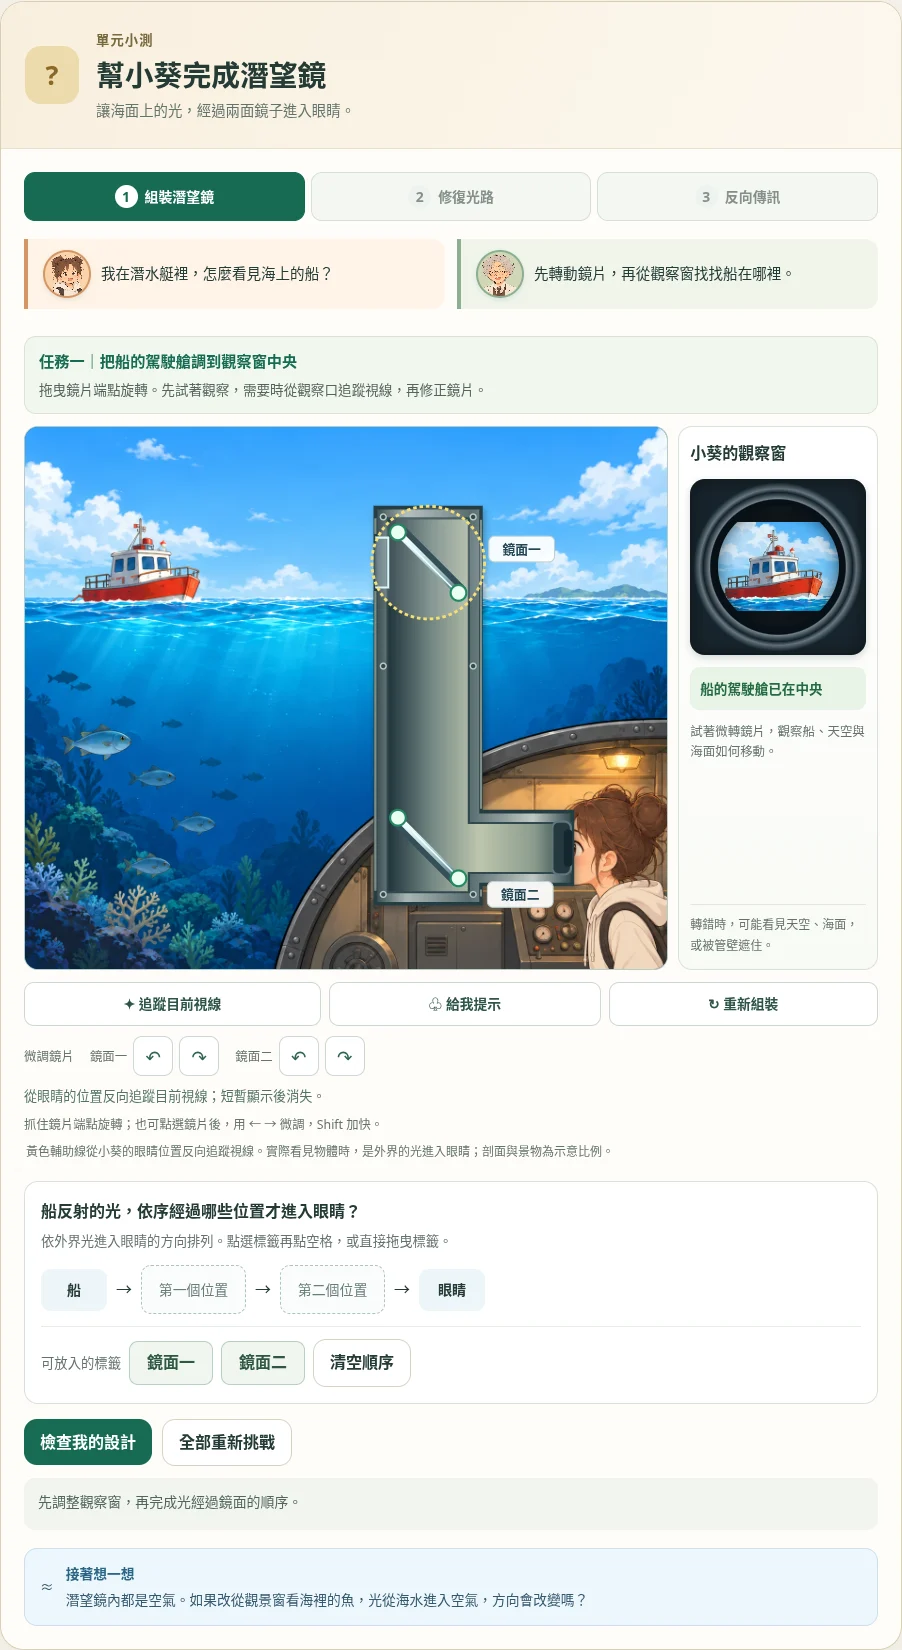
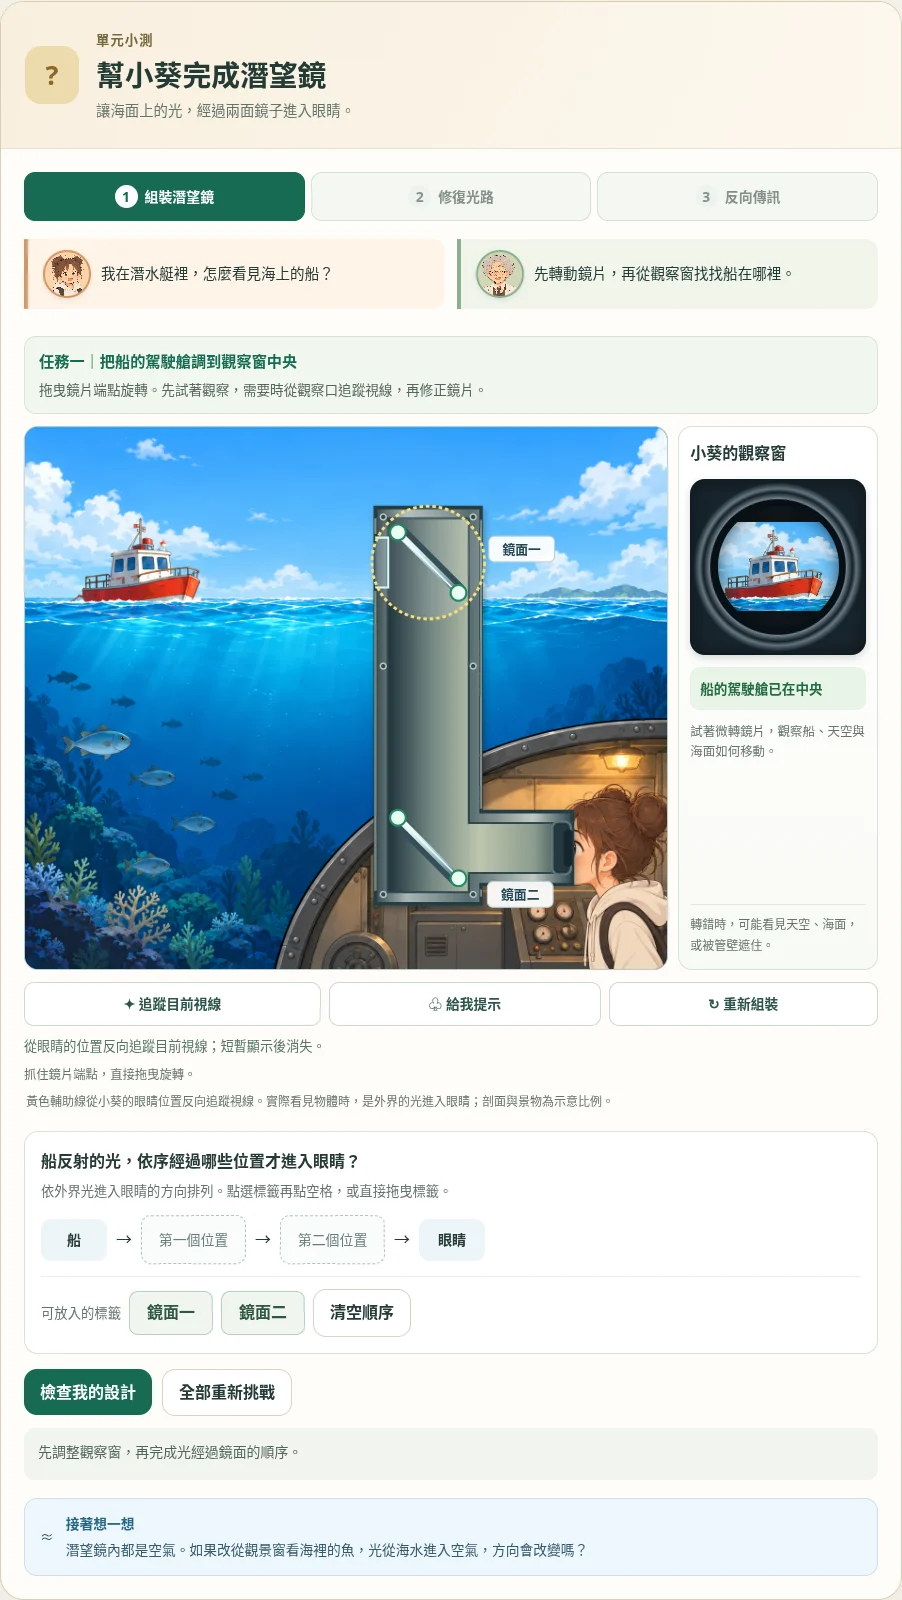
Remove the separate periscope fine adjustment toolbar

diff --git a/units/1/parts/1.2/index.html b/units/1/parts/1.2/index.html
@@ -103,7 +103,7 @@
   </style>
   <link rel="stylesheet" href="assets/curved-mirrors.css?v=1">
   <link rel="stylesheet" href="assets/reversible-light.css?v=3">
-  <link rel="stylesheet" href="assets/periscope.css?v=2">
+  <link rel="stylesheet" href="assets/periscope.css?v=3">
 </head>
 <body>
   <header class="shell masthead">
@@ -433,9 +433,8 @@
                 <aside class="periscope-view" aria-label="從潛望鏡看到的景象"><h3>小葵的觀察窗</h3><div class="periscope-lens-frame"><canvas id="periscope-view" width="240" height="240" role="img" aria-label="觀察窗載入中"></canvas></div><div id="periscope-view-state" class="periscope-view-state" role="status">正在準備觀察窗…</div><p id="periscope-view-copy">景象隨鏡片轉動；管壁擋住的區域會變暗。</p><div class="periscope-view-meter">轉錯時，可能看見天空、海面，或被管壁遮住。</div></aside>
               </div>
               <div class="periscope-controls"><button type="button" id="periscope-pulse" aria-describedby="periscope-pulse-note">✦ 追蹤目前視線</button><button type="button" id="periscope-hint">♧ 給我提示</button><button type="button" id="periscope-reset-stage">↻ 重新組裝</button><button type="button" id="periscope-signal" class="periscope-signal" aria-pressed="false" hidden disabled>發送訊號光</button></div>
-              <div class="periscope-fine" id="periscope-fine" role="group" aria-label="鏡片精細調整"><span>微調鏡片</span><div><span>鏡面一</span><button type="button" data-fine="0,-0.5" aria-label="鏡面一逆時針微調半度">↶</button><button type="button" data-fine="0,0.5" aria-label="鏡面一順時針微調半度">↷</button></div><div><span>鏡面二</span><button type="button" data-fine="1,-0.5" aria-label="鏡面二逆時針微調半度">↶</button><button type="button" data-fine="1,0.5" aria-label="鏡面二順時針微調半度">↷</button></div></div>
               <p class="periscope-pulse-note" id="periscope-pulse-note" role="status">從眼睛的位置反向追蹤目前視線；短暫顯示後消失。</p>
-              <p class="periscope-keyboard" id="periscope-drag-help">抓住鏡片端點旋轉；也可點選鏡片後，用 ← → 微調，Shift 加快。</p>
+              <p class="periscope-keyboard" id="periscope-drag-help">抓住鏡片端點，直接拖曳旋轉。</p>
               <p class="periscope-hint" id="periscope-hint-copy" role="status" hidden></p>
               <p class="periscope-model-note">黃色輔助線從小葵的眼睛位置反向追蹤視線。實際看見物體時，是外界的光進入眼睛；剖面與景物為示意比例。</p>
               <div class="periscope-question" id="periscope-question-0"><h3>船反射的光，依序經過哪些位置才進入眼睛？</h3><p>依外界光進入眼睛的方向排列。點選標籤再點空格，或直接拖曳標籤。</p><div class="periscope-order"><span class="path-end">船</span><span aria-hidden="true">→</span><button type="button" class="periscope-slot" data-slot="0" aria-label="第一個反射位置，尚未填入">第一個位置</button><span aria-hidden="true">→</span><button type="button" class="periscope-slot" data-slot="1" aria-label="第二個反射位置，尚未填入">第二個位置</button><span aria-hidden="true">→</span><span class="path-end">眼睛</span></div><div class="periscope-chips"><small>可放入的標籤</small><button type="button" draggable="true" class="periscope-chip" data-chip="0" aria-pressed="false">鏡面一</button><button type="button" draggable="true" class="periscope-chip" data-chip="1" aria-pressed="false">鏡面二</button><button type="button" id="periscope-clear-order" class="secondary">清空順序</button></div></div>
@@ -474,6 +473,6 @@
   <script type="module" src="assets/reflection-3d.js?v=46"></script>
   <script type="module" src="assets/laser-reflection.js?v=36"></script>
   <script type="module" src="assets/reversible-light.js?v=3"></script>
-  <script type="module" src="assets/periscope.js?v=6"></script>
+  <script type="module" src="assets/periscope.js?v=7"></script>
 </body>
 </html>

diff --git a/units/1/parts/1.2/assets/periscope.js b/units/1/parts/1.2/assets/periscope.js
@@ -179,13 +179,13 @@ if(root) {
     $$('.periscope-chip').forEach(b=>b.setAttribute('aria-pressed',String(Number(b.dataset.chip)===state.chip)));
     $$('[data-diagnosis]').forEach(b=>b.setAttribute('aria-pressed',String(Number(b.dataset.diagnosis)===state.diagnosis)));
     $$('[data-prediction]').forEach(b=>b.setAttribute('aria-pressed',String(b.dataset.prediction===state.prediction)));
-    $('#periscope-fine').hidden=state.stage===2;updatePulseControls();
+    updatePulseControls();
     $('#periscope-signal').hidden=state.stage!==2;$('#periscope-signal').disabled=!state.prediction;$('#periscope-signal').setAttribute('aria-pressed',String(state.signal));$('#periscope-signal').textContent=state.signal?'關閉訊號光':'發送訊號光';
     $('#periscope-reset-stage').textContent=['↻ 重新組裝','↻ 重現故障','↻ 重做預測'][state.stage];
     $('#periscope-check').textContent=['檢查我的設計','檢查修復結果','確認我的預測'][state.stage];
     $('#periscope-next').hidden=!state.done[state.stage]||state.stage===2;$('#periscope-next').textContent=state.stage===0?'前往修復光路 →':'前往反向傳訊 →';
     $('#periscope-complete').hidden=!state.done[2];
-    $('#periscope-drag-help').textContent=state.stage===2?'這一關固定鏡面。先預測，再比較黃色原路線與藍色訊號光。':'抓住鏡片端點旋轉；也可點選鏡片後，用 ← → 微調，Shift 加快。';
+    $('#periscope-drag-help').textContent=state.stage===2?'這一關固定鏡面。先預測，再比較黃色原路線與藍色訊號光。':'抓住鏡片端點，直接拖曳旋轉。';
     $('.periscope-model-note').textContent=state.stage===2?'黃色是原本進入眼睛的光路，藍色訊號光從原眼睛位置反向發出；剖面與景物為示意比例。':'黃色輔助線從小葵的眼睛位置反向追蹤視線。實際看見物體時，是外界的光進入眼睛；剖面與景物為示意比例。';
     drawOptics();renderView();
   }
@@ -223,7 +223,6 @@ if(root) {
     g.addEventListener('pointerup',end);g.addEventListener('pointercancel',end);g.addEventListener('lostpointercapture',()=>{dragging=null;});
     g.addEventListener('keydown',e=>{if(state.stage===2)return;let n=state.angles[i],step=e.shiftKey?2:.5;if(e.key==='ArrowLeft'||e.key==='ArrowDown')n-=step;else if(e.key==='ArrowRight'||e.key==='ArrowUp')n+=step;else if(e.key==='Home')n=OPTICS.minAngle;else if(e.key==='End')n=OPTICS.maxAngle;else return;e.preventDefault();setAngle(i,n);});
   });
-  $$('[data-fine]').forEach(b=>b.addEventListener('click',()=>{const [i,step]=b.dataset.fine.split(',').map(Number);setAngle(i,state.angles[i]+step);}));
   function putChip(slot,chip) {
     if(chip!==0&&chip!==1)return;
     invalidate();const other=1-slot,old=state.order[slot];if(state.order[other]===chip)state.order[other]=old;
@@ -289,7 +288,7 @@ if(root) {
       if(state.diagnosis===null){feedback('先判斷哪片鏡子被轉動，再檢查修復結果。','try');return;}
       if(state.diagnosis!==0){feedback('這次被轉動的鏡片與你的判斷不同。比較光從哪一處開始偏離，再試一次。','try');return;}
       if(!info.target){feedback('已找出故障鏡片，還要把船的駕駛艙調回觀察窗中央。','try');return;}
-      if(!returnSignal(state.angles).receiver){feedback('船已進入視野，再微調到駕駛艙中央，讓接下來的訊號也能回到船上。','try');return;}
+      if(!returnSignal(state.angles).receiver){feedback('船已進入視野，再拖動鏡片讓駕駛艙回到中央，讓接下來的訊號也能回到船上。','try');return;}
       state.saved=[...state.angles];state.done[1]=true;feedback('修復成功！上方鏡片偏轉，會把視線帶向天空或海面；偏得太多也會被管壁擋住。','good');
     } else {
       if(!state.prediction){feedback('先選擇一個預測，再發送訊號驗證。','try');return;}

diff --git a/units/1/parts/1.2/assets/periscope.css b/units/1/parts/1.2/assets/periscope.css
@@ -16,7 +16,6 @@
 @media(max-width:600px){.periscope-heading{padding:18px 15px;gap:12px}.periscope-heading .quiz-icon{flex-basis:42px;height:48px;border-radius:12px}.periscope-body{padding:14px}.periscope-steps{gap:4px}.periscope-steps button{font-size:.76rem;flex-direction:column;gap:4px;padding:8px 3px}.periscope-workspace{grid-template-columns:1fr}.periscope-view{display:grid;grid-template-columns:120px 1fr;gap:8px 12px;align-items:center;padding:11px}.periscope-view h3{grid-column:1/-1}.periscope-lens-frame{grid-row:2/5}.periscope-view-meter{display:none}.periscope-view-state{font-size:.82rem}.periscope-view p{font-size:.76rem}.periscope-order{gap:5px}.periscope-slot{min-width:82px;font-size:.78rem;padding:6px}.periscope-order .path-end{min-width:43px;font-size:.79rem;padding:8px 5px}.periscope-question{padding:12px}.periscope-order>span[aria-hidden]{font-size:.8rem}.periscope-controls{gap:6px}.periscope-controls button{font-size:.78rem;padding:7px}.periscope-task{padding:10px 12px}.periscope-task p{font-size:.8rem}.periscope-heading h2{font-size:1.28rem}}
 #periscope-recorded .light-line{stroke-width:10}
 .periscope-steps button span{width:23px}
-.periscope-fine{display:flex;align-items:center;flex-wrap:wrap;gap:8px 16px;margin-top:10px;color:var(--muted);font-size:.78rem}.periscope-fine>div{display:flex;align-items:center;gap:6px}.periscope-fine button{display:grid;place-items:center;min-width:40px;min-height:40px;border:1px solid #cbd8d2;border-radius:9px;background:#fff;color:#2d6551;font-size:1.15rem}
-@media(max-width:600px){.periscope-order{display:grid;grid-template-columns:30px 10px minmax(0,1fr) 10px minmax(0,1fr) 10px 38px;gap:3px}.periscope-order .path-end{min-width:0;padding:8px 3px}.periscope-slot{min-width:0;width:100%;padding:6px 2px;font-size:.73rem}.periscope-fine{gap:7px 11px}.periscope-fine>span{flex-basis:100%}}
+@media(max-width:600px){.periscope-order{display:grid;grid-template-columns:30px 10px minmax(0,1fr) 10px minmax(0,1fr) 10px 38px;gap:3px}.periscope-order .path-end{min-width:0;padding:8px 3px}.periscope-slot{min-width:0;width:100%;padding:6px 2px;font-size:.73rem}}
 
 .periscope-controls button:disabled{cursor:default;background:#f1f4ef;color:#7b8d83;border-color:#d9e1d9}.periscope-pulse-note{margin:9px 0 0;color:#557465;font-size:.82rem}.periscope-path circle{pointer-events:none}

diff --git a/units/1/parts/1.2/assets/README.md b/units/1/parts/1.2/assets/README.md
@@ -30,7 +30,7 @@
 ## 單元小測：潛望鏡
 
 - `periscope-optics.mjs`：與 DOM 無關的有限單面平面鏡、封閉管壁與矩形入口幾何。向量反射、三維離軸視線、場景取樣位置、視野遮擋及反向訊號均可獨立檢查。
-- `periscope.js`／`periscope.css`：組裝、修復、反向傳訊三階段，以及鏡片端點拖曳、鍵盤／半度微調、標籤拖放／點選、預測驗證、提示及完整重設。新鏡片使用專用 `scope-mirror-*` 類名，避免影響第五區 `mirror-hit` 反射點。
+- `periscope.js`／`periscope.css`：組裝、修復、反向傳訊三階段，以及鏡片端點拖曳、鏡片聚焦後的方向鍵操作、標籤拖放／點選、預測驗證、提示及完整重設。新鏡片使用專用 `scope-mirror-*` 類名，避免影響第五區 `mirror-hit` 反射點。
 - `periscope/submarine-scene.webp`：2026-10-28 依核可示意圖生成的無文字、無光路、無鏡片背景，含船、海面、水下及乾燥艙內小葵；1364 × 1152，約 163 KiB。鏡片、管道、光線及操作點由程式繪製，生成圖不作光學幾何證據。
 - 觀察窗使用同一素材的船／天空與海面區域作遠方場景取樣，不使用預製成功／失敗圖。海面以下取樣延伸海面紋理，避免讓水面以上入口看見背景中的水下魚或艙內。
 - 這是使用插畫遠景的幾何光學教學模型，不是海水、玻璃窗或完整眼球的物理渲染。入口薄窗忽略折射、吸收與厚度，不新增透鏡放大；上方入口在海面以上，整條管內路徑在空氣中。完整限制及來源見 `docs/reviews/unit-1.2-periscope/review.md`。
@@ -50,3 +50,5 @@
 ### 觀察口起點
 
 `periscope-optics.mjs` 新增 `traceSightline()`：由 `OPTICS.eye` 沿與觀察窗中央相同的方向追跡，管內完全共用鏡面／管壁交點；管外以同一直線與插畫船體粗略輪廓、海面及畫面邊界相交，不穿入水下或刻意連到船。這層插畫輪廓只用於顯示終點，觀察窗仍採前述遠方圖像取樣模型。`periscope.js` 的一般提示及文字提示都改用此函式，移除固定船端光源；第三關訊號本來即由原眼位發出。
+
+2026-10-28 操作精簡：移除獨立 `periscope-fine` 半度微調列及其事件與樣式；可見提示只說明拖曳鏡片端點。

diff --git a/docs/reviews/unit-1.2-periscope/review.md b/docs/reviews/unit-1.2-periscope/review.md
@@ -105,3 +105,11 @@
 本輪檢查增加所有 SVG 可見文字只含兩個鏡面名稱、無 `<title>`、可存取名稱與描述保留的斷言；實際桌面、手機與第三關畫面另行檢視。紀錄見 `labels-tests.log`。
 
 本輪潛望鏡檢查 **23 項通過、0 失敗**（含外層項目），桌面、手機及第三關實際截圖已更新並人工檢視；圖中所有文字節點均只有兩個鏡面名稱，光源圖示、眼位追蹤及三階段操作正常。
+
+## 移除獨立微調列（2026-10-28）
+
+依使用者要求移除「微調鏡片」整列及四個半度旋轉按鈕，同步刪除對應監聽與樣式，避免殘留找不到元素的呼叫。可見操作說明簡化為「抓住鏡片端點，直接拖曳旋轉」。鏡片本身仍可聚焦並以方向鍵作可存取操作，沒有新增畫面控制；第三關固定鏡面規則不變。
+
+測試改為驗證微調列與按鈕不存在，以及實際拖曳旋轉、拖曳／鍵盤取消提示、觸控拖曳與三關評量。桌面與手機截圖更新；結果見 `drag-only-tests.log`。
+
+本輪潛望鏡 **23 項檢查通過、0 失敗**（含外層項目），人工檢視手機與桌面畫面，確認微調列完整移除、說明只引導畫面拖曳，鏡片旋轉與視線提示仍正常。

diff --git a/units/1/parts/1.2/storyline.md b/units/1/parts/1.2/storyline.md
@@ -133,3 +133,7 @@
 ### 剖面圖精簡文字（2026-10-28）
 
 依使用者要求移除船、海面、海水及空氣標籤，剖面中只留下鏡面一、鏡面二。取消遮住畫面的原生 SVG 標題提示，情境描述保留給輔助閱讀；第三關光源只保留器材圖示，說明仍在圖外任務文字中。
+
+### 只保留畫面中的鏡片調整（2026-10-28）
+
+依使用者要求移除下方獨立微調列，畫面以拖曳鏡片端點旋轉為主要操作，說明也簡化為直接拖曳。既有鏡片聚焦後的鍵盤可存取操作保留，提示、觀察窗與第三關固定鏡面規則維持。
